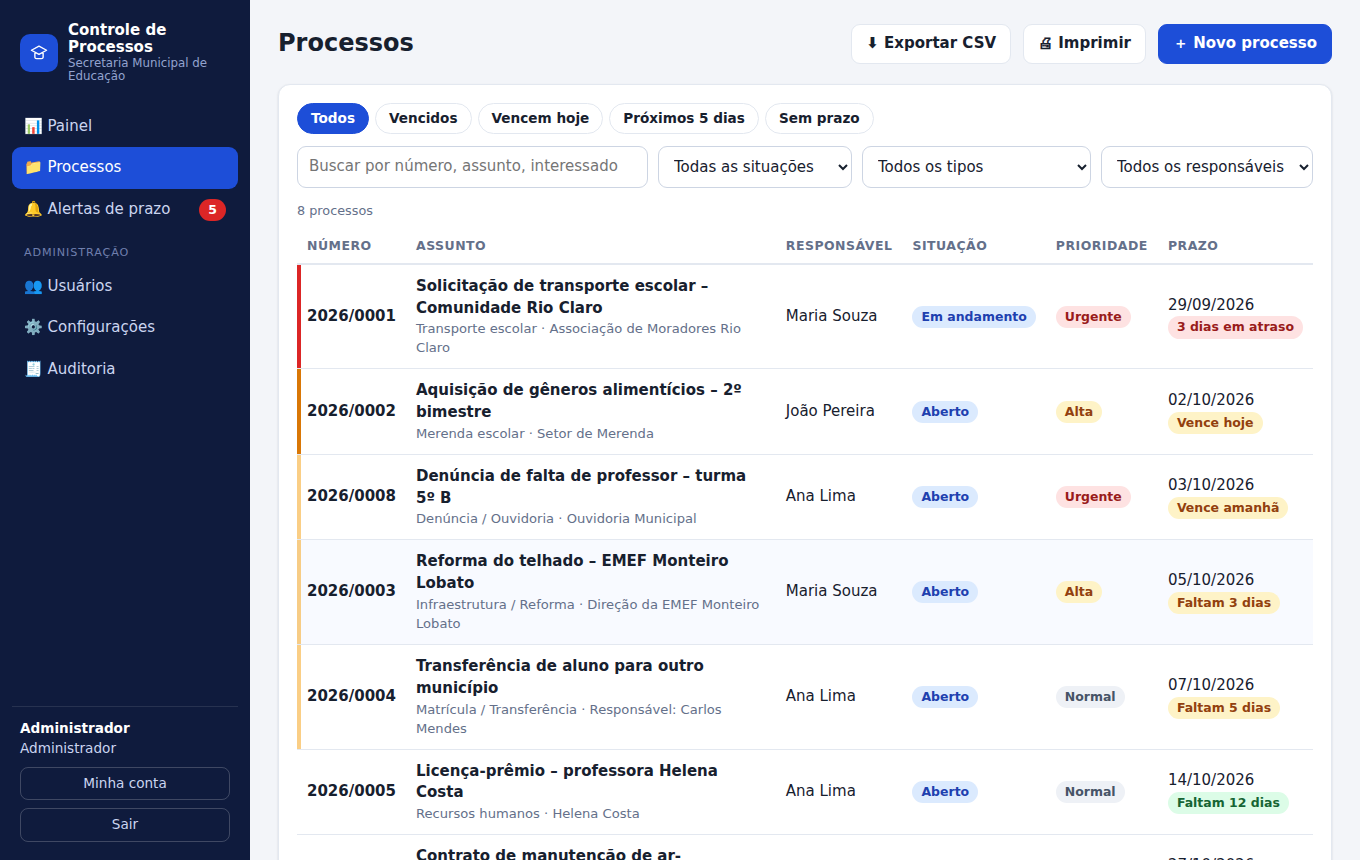
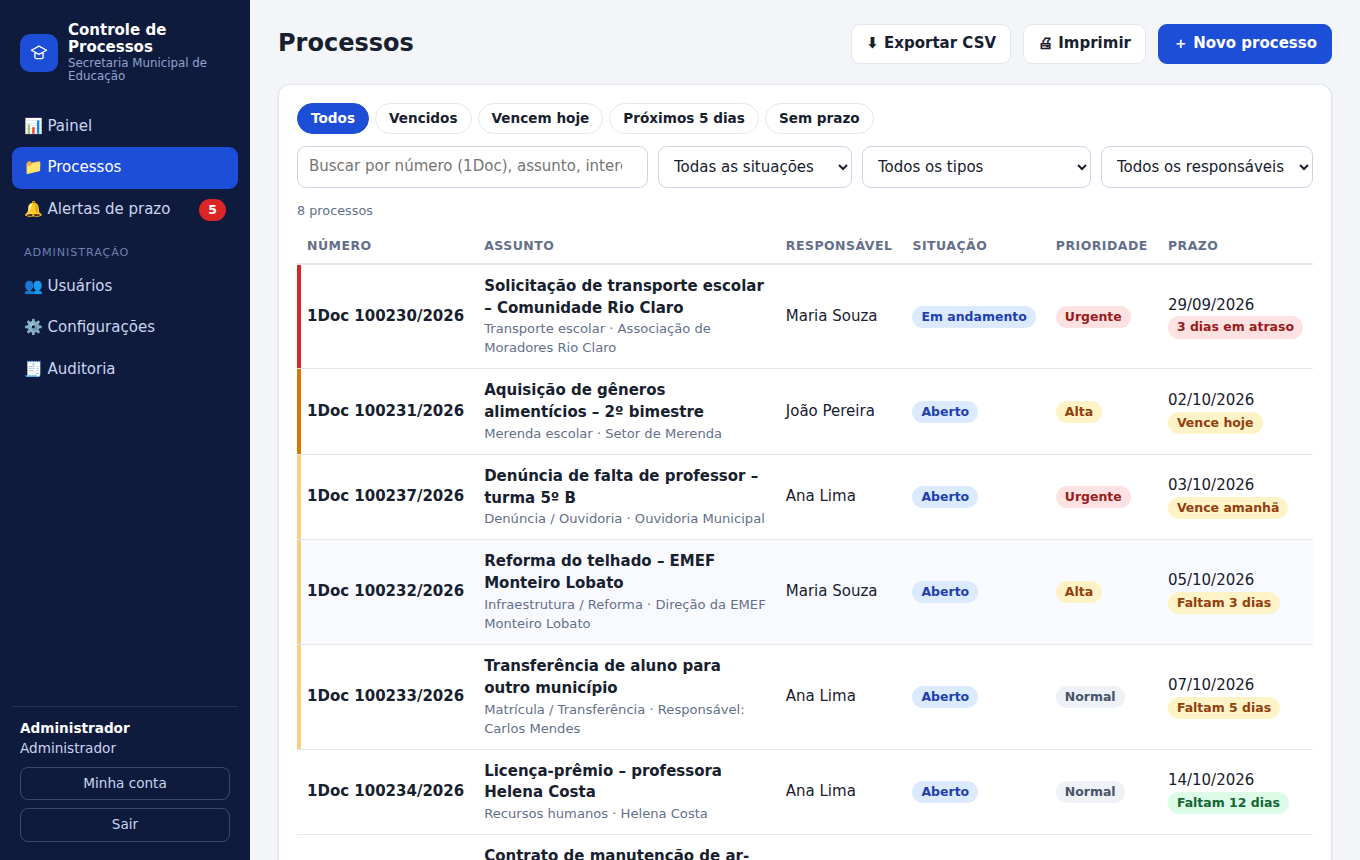
Número do processo informado manualmente (1Doc), sem numeração automática
Claude-Session: https://claude.ai/code/session_01XKfXjNhj6kGmmtDub1YCzj

diff --git a/server.js b/server.js
@@ -103,15 +103,13 @@ function podeEditar(user, p) {
 function addMov(pid, uid, tipo, texto) {
   db.prepare('INSERT INTO movimentacoes(processo_id,usuario_id,tipo,texto) VALUES(?,?,?,?)').run(pid, uid, tipo, texto);
 }
-function proximoNumero() {
-  const ano = hoje().slice(0, 4);
-  const r = db.prepare("SELECT numero FROM processos WHERE numero LIKE ? ORDER BY id DESC LIMIT 1").get(`${ano}/%`);
-  const n = r ? Number(r.numero.split('/')[1]) + 1 : 1;
-  return `${ano}/${String(n).padStart(4, '0')}`;
+function numeroUnico(numero, ignorarId) {
+  if (db.prepare('SELECT 1 FROM processos WHERE numero=? COLLATE NOCASE AND id<>?').get(numero, ignorarId || 0)) throw bad(`Já existe um processo cadastrado com o número ${numero}.`);
 }
 
 function valida(b, cfg, parcial = false) {
   const d = {};
+  if (!parcial || 'numero' in b) { d.numero = str(b.numero, 60); if (!d.numero) throw bad('Informe o número do processo (1Doc).'); }
   if (!parcial || 'assunto' in b) { d.assunto = str(b.assunto, 300); if (!d.assunto) throw bad('Informe o assunto do processo.'); }
   for (const k of ['tipo', 'interessado', 'origem']) if (!parcial || k in b) d[k] = str(b[k], 200) || null;
   if (!parcial || 'descricao' in b) d.descricao = str(b.descricao, 5000) || null;
@@ -217,16 +215,11 @@ route('POST', '/api/processos', AUTH, ({ user, body }) => {
   const cfg = getConfig(), d = valida(body, cfg);
   if (d.prazo && d.prazo < d.data_abertura) throw bad('O prazo não pode ser anterior à data de abertura.');
   if (!('responsavel_id' in d)) d.responsavel_id = user.id;
-  let id, numero;
-  db.exec('BEGIN IMMEDIATE');
-  try {
-    numero = proximoNumero();
-    const r = db.prepare(`INSERT INTO processos(numero,assunto,tipo,interessado,origem,descricao,prioridade,data_abertura,prazo,responsavel_id,criado_por)
-      VALUES(?,?,?,?,?,?,?,?,?,?,?)`).run(numero, d.assunto, d.tipo, d.interessado, d.origem, d.descricao, d.prioridade, d.data_abertura, d.prazo, d.responsavel_id, user.id);
-    id = Number(r.lastInsertRowid);
-    addMov(id, user.id, 'abertura', 'Processo aberto.');
-    db.exec('COMMIT');
-  } catch (e) { db.exec('ROLLBACK'); throw e; }
+  numeroUnico(d.numero);
+  const r = db.prepare(`INSERT INTO processos(numero,assunto,tipo,interessado,origem,descricao,prioridade,data_abertura,prazo,responsavel_id,criado_por)
+    VALUES(?,?,?,?,?,?,?,?,?,?,?)`).run(d.numero, d.assunto, d.tipo, d.interessado, d.origem, d.descricao, d.prioridade, d.data_abertura, d.prazo, d.responsavel_id, user.id);
+  const id = Number(r.lastInsertRowid), numero = d.numero;
+  addMov(id, user.id, 'abertura', 'Processo cadastrado.');
   audit(user, 'processo_criado', numero);
   return { id, numero };
 });
@@ -244,15 +237,17 @@ route('PUT', '/api/processos/:id', AUTH, ({ user, body, params }) => {
   const d = valida(body, getConfig(), true);
   const novo = { ...atual, ...d };
   if (novo.prazo && novo.prazo < novo.data_abertura) throw bad('O prazo não pode ser anterior à data de abertura.');
+  if (d.numero !== undefined && d.numero !== atual.numero) numeroUnico(d.numero, atual.id);
   const mudancas = [];
+  if (d.numero !== undefined && d.numero !== atual.numero) mudancas.push(`Número alterado de ${atual.numero} para ${d.numero}`);
   if (d.prazo !== undefined && d.prazo !== atual.prazo) mudancas.push(`Prazo alterado de ${atual.prazo || 'sem prazo'} para ${d.prazo || 'sem prazo'}`);
   if (d.prioridade && d.prioridade !== atual.prioridade) mudancas.push(`Prioridade: ${atual.prioridade} → ${d.prioridade}`);
   if (d.responsavel_id !== undefined && d.responsavel_id !== atual.responsavel_id) {
     const nome = (id) => (id ? db.prepare('SELECT nome FROM usuarios WHERE id=?').get(id)?.nome : 'ninguém');
     mudancas.push(`Responsável: ${nome(atual.responsavel_id)} → ${nome(d.responsavel_id)}`);
   }
-  db.prepare(`UPDATE processos SET assunto=?,tipo=?,interessado=?,origem=?,descricao=?,prioridade=?,data_abertura=?,prazo=?,responsavel_id=?,atualizado_em=datetime('now') WHERE id=?`)
-    .run(novo.assunto, novo.tipo, novo.interessado, novo.origem, novo.descricao, novo.prioridade, novo.data_abertura, novo.prazo, novo.responsavel_id, atual.id);
+  db.prepare(`UPDATE processos SET numero=?,assunto=?,tipo=?,interessado=?,origem=?,descricao=?,prioridade=?,data_abertura=?,prazo=?,responsavel_id=?,atualizado_em=datetime('now') WHERE id=?`)
+    .run(novo.numero, novo.assunto, novo.tipo, novo.interessado, novo.origem, novo.descricao, novo.prioridade, novo.data_abertura, novo.prazo, novo.responsavel_id, atual.id);
   if (mudancas.length) addMov(atual.id, user.id, 'alteracao', mudancas.join('; ') + '.');
   audit(user, 'processo_editado', atual.numero);
   return { ok: true };

diff --git a/public/app.js b/public/app.js
@@ -223,7 +223,7 @@ async function pgLista(main) {
     <div class="card">
       <div class="chips">${chips.map(([v, l]) => h`<button class="chip ${(q.prazo || '') === v ? 'on' : ''}" data-prazo="${v}">${l}</button>`)}</div>
       <div class="filters">
-        <input type="search" id="busca" placeholder="Buscar por número, assunto, interessado ou origem…" value="${q.q || ''}">
+        <input type="search" id="busca" placeholder="Buscar por número (1Doc), assunto, interessado ou origem…" value="${q.q || ''}">
         <select id="fstatus"><option value="">Todas as situações</option><option value="abertos" ${q.status === 'abertos' ? raw('selected') : ''}>Somente em aberto</option>${opt(STATUS, q.status)}</select>
         <select id="ftipo"><option value="">Todos os tipos</option>${opt(state.config.tipos, q.tipo)}</select>
         <select id="fresp"><option value="">Todos os responsáveis</option><option value="meus" ${q.responsavel === 'meus' ? raw('selected') : ''}>Somente os meus</option>${state.usuarios.map((u) => h`<option value="${u.id}" ${String(u.id) === q.responsavel ? raw('selected') : ''}>${u.nome}</option>`)}</select>
@@ -256,6 +256,7 @@ async function pgForm(main, _) {
   const resp = state.usuarios;
   const adm = state.user.perfil === 'admin';
   main.innerHTML = topo(id ? `Editar processo ${p.numero}` : 'Novo processo') + h`<form class="card" id="f"><div class="err-msg hide" id="err"></div><div class="form">
+    <div><label>Número do processo (1Doc) <span class="req">*</span></label><input name="numero" value="${p.numero || ''}" maxlength="60" required placeholder="Número gerado no 1Doc"></div>
     <div class="full"><label>Assunto <span class="req">*</span></label><input name="assunto" value="${p.assunto || ''}" maxlength="300" required placeholder="Ex.: Solicitação de transporte escolar – Zona Rural"></div>
     <div><label>Tipo</label><select name="tipo"><option value="">Selecione…</option>${state.config.tipos.map((t) => h`<option ${t === p.tipo ? raw('selected') : ''}>${t}</option>`)}</select></div>
     <div><label>Prioridade</label><select name="prioridade">${PRIOS.map((t) => h`<option ${t === p.prioridade ? raw('selected') : ''}>${t}</option>`)}</select></div>
@@ -265,13 +266,13 @@ async function pgForm(main, _) {
     <div><label>Prazo final</label><input type="date" name="prazo" value="${p.prazo || ''}"><div class="hint">Você será alertado ${state.config.dias_alerta} dias antes do vencimento.</div></div>
     <div><label>Responsável</label><select name="responsavel_id"><option value="">Sem responsável</option>${resp.map((u) => h`<option value="${u.id}" ${u.id === p.responsavel_id ? raw('selected') : ''}>${u.nome}</option>`)}</select></div>
     <div class="full"><label>Descrição / Observações</label><textarea name="descricao" maxlength="5000">${p.descricao || ''}</textarea></div>
-  </div><div style="display:flex;gap:8px;margin-top:18px"><button class="btn pri">${id ? 'Salvar alterações' : 'Abrir processo'}</button><a class="btn" href="#/processos${id ? '/' + id : ''}">Cancelar</a></div></form>`.s;
+  </div><div style="display:flex;gap:8px;margin-top:18px"><button class="btn pri">${id ? 'Salvar alterações' : 'Cadastrar processo'}</button><a class="btn" href="#/processos${id ? '/' + id : ''}">Cancelar</a></div></form>`.s;
   $('#f').onsubmit = async (e) => {
     e.preventDefault();
     const body = Object.fromEntries(new FormData(e.target).entries());
     await tentar(async () => {
       const r = id ? await api('PUT', '/api/processos/' + id, body) : await api('POST', '/api/processos', body);
-      toast(id ? 'Processo atualizado.' : `Processo ${r.numero} aberto.`); location.hash = '#/processos/' + (id || r.id);
+      toast(id ? 'Processo atualizado.' : `Processo ${r.numero} cadastrado.`); location.hash = '#/processos/' + (id || r.id);
       const al = await api('GET', '/api/alertas'); state.alertas = al;
     }, $('#err'));
   };

diff --git a/test/api.test.js b/test/api.test.js
@@ -48,13 +48,15 @@ test('fluxo completo: admin, usuários, processos e alertas', async () => {
   assert.strictEqual((await maria('GET', '/api/auditoria')).status, 403);
   assert.strictEqual((await maria('POST', '/api/usuarios', {})).status, 403);
 
-  const p1 = await maria('POST', '/api/processos', { assunto: 'Transporte escolar', tipo: 'Transporte escolar', data_abertura: dia(-10), prazo: dia(-3) });
-  const p2 = await maria('POST', '/api/processos', { assunto: 'Merenda', prazo: dia(0) });
-  const p3 = await maria('POST', '/api/processos', { assunto: 'Reforma', prazo: dia(3) });
-  const p4 = await maria('POST', '/api/processos', { assunto: 'Longe', prazo: dia(30) });
-  assert.match(p1.body.numero, /^\d{4}\/0001$/);
-  assert.strictEqual((await maria('POST', '/api/processos', { assunto: '' })).status, 400);
-  assert.strictEqual((await maria('POST', '/api/processos', { assunto: 'x', prazo: '2000-01-01' })).status, 400);
+  const p1 = await maria('POST', '/api/processos', { numero: '1DOC-0001', assunto: 'Transporte escolar', tipo: 'Transporte escolar', data_abertura: dia(-10), prazo: dia(-3) });
+  const p2 = await maria('POST', '/api/processos', { numero: '1DOC-0002', assunto: 'Merenda', prazo: dia(0) });
+  const p3 = await maria('POST', '/api/processos', { numero: '1DOC-0003', assunto: 'Reforma', prazo: dia(3) });
+  const p4 = await maria('POST', '/api/processos', { numero: '1DOC-0004', assunto: 'Longe', prazo: dia(30) });
+  assert.strictEqual(p1.body.numero, '1DOC-0001');
+  assert.strictEqual((await maria('POST', '/api/processos', { numero: '1doc-0001', assunto: 'Duplicado' })).status, 400);
+  assert.strictEqual((await maria('POST', '/api/processos', { assunto: 'Sem número' })).status, 400);
+  assert.strictEqual((await maria('POST', '/api/processos', { numero: 'X1', assunto: '' })).status, 400);
+  assert.strictEqual((await maria('POST', '/api/processos', { numero: 'X2', assunto: 'x', prazo: '2000-01-01' })).status, 400);
 
   const lista = (await maria('GET', '/api/processos')).body;
   const sit = Object.fromEntries(lista.map((p) => [p.assunto, p.situacao]));

diff --git a/test/telas.js b/test/telas.js
@@ -25,8 +25,8 @@ const d = (n) => new Date(Date.now() + n * 864e5).toLocaleDateString('en-CA', { 
     ['Denúncia de falta de professor – turma 5º B', 'Denúncia / Ouvidoria', 'Ouvidoria Municipal', 'Ouvidoria', 'Urgente', -1, 1, 'ana'],
   ];
   const pid = [];
-  for (const [assunto, tipo, interessado, origem, prioridade, ab, pr, resp] of P) {
-    const r = await call('a', 'POST', '/api/processos', { assunto, tipo, interessado, origem, prioridade, data_abertura: d(ab), prazo: d(pr), responsavel_id: ids[resp], descricao: 'Processo encaminhado para análise e providências conforme documentação anexa ao protocolo.' });
+  let seq = 100230; for (const [assunto, tipo, interessado, origem, prioridade, ab, pr, resp] of P) {
+    const r = await call('a', 'POST', '/api/processos', { numero: `1Doc ${seq++}/2026`, assunto, tipo, interessado, origem, prioridade, data_abertura: d(ab), prazo: d(pr), responsavel_id: ids[resp], descricao: 'Processo encaminhado para análise e providências conforme documentação anexa ao protocolo.' });
     pid.push(r.id);
   }
   await call('a', 'POST', `/api/processos/${pid[0]}/movimentacoes`, { texto: 'Solicitada vistoria da rota ao setor de frotas.' });

diff --git a/README.md b/README.md
@@ -5,7 +5,7 @@ Sistema web para registrar, acompanhar e controlar prazos de processos da Secret
 ## Recursos
 - **Perfis**: *Administrador* (cria/edita/desativa usuários, redefine senhas, configura o sistema, exclui processos, vê a auditoria) e *Usuário* (criado pelo administrador).
 - **Primeiro acesso seguro**: senhas provisórias, troca obrigatória no primeiro login, senhas com hash `scrypt`, bloqueio temporário após 5 tentativas erradas.
-- **Processos**: numeração automática (`AAAA/NNNN`), tipo, prioridade, interessado, origem, responsável, prazo, situação e histórico de andamentos (linha do tempo).
+- **Processos**: número do processo informado manualmente (número do sistema 1Doc, único), tipo, prioridade, interessado, origem, responsável, prazo, situação e histórico de andamentos (linha do tempo).
 - **Controle de prazos com alerta**: painel com vencidos / vencem hoje / próximos N dias, faixa de aviso, central de alertas (cada usuário vê os seus; o admin vê todos), cores nas listas e contador no menu. A antecedência (N) é configurável.
 - **Painel** com indicadores, carga por responsável e últimas movimentações.
 - Busca e filtros, exportação **CSV** (Excel), impressão, **auditoria** de ações, layout responsivo (celular).
